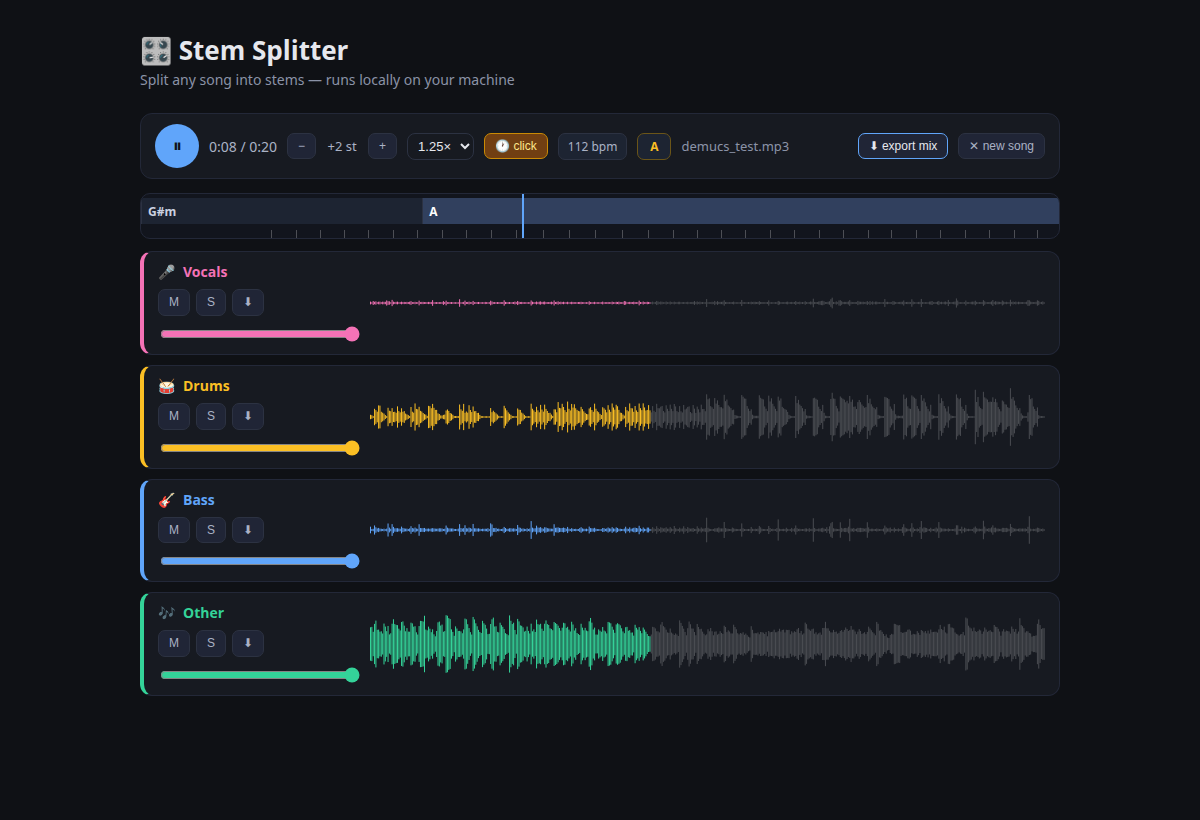
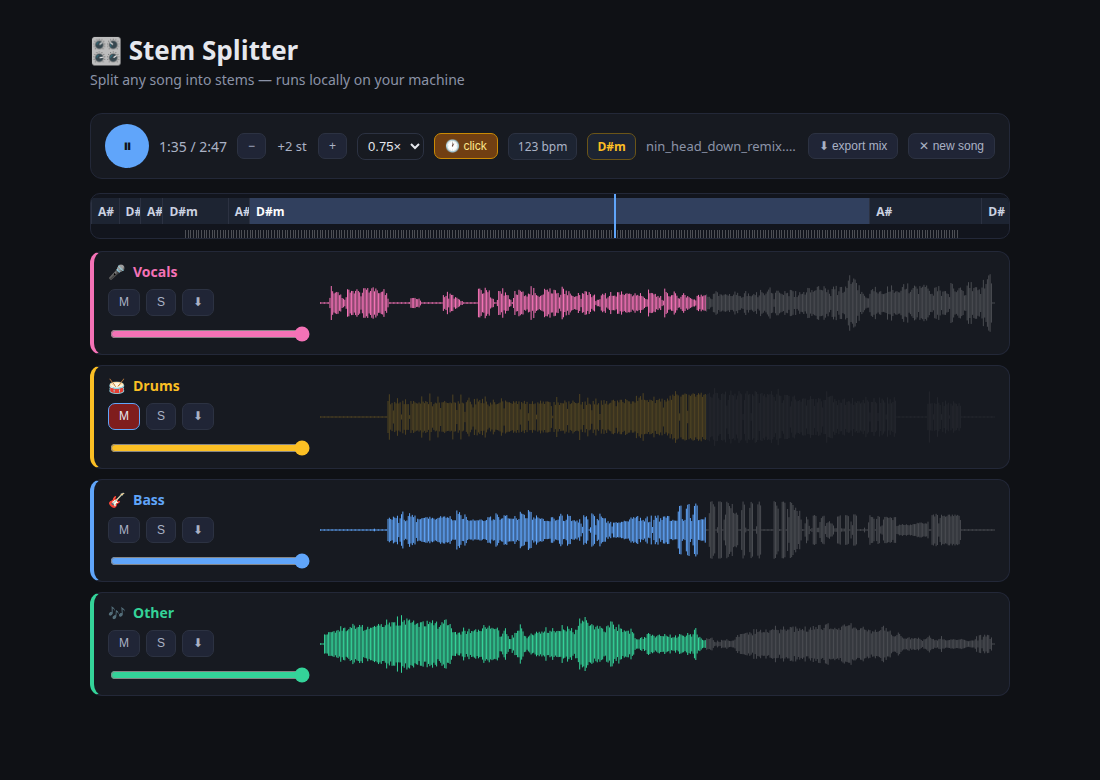
Add Docker packaging and refresh the demo GIF
Multi-stage Dockerfile (Node builds the mixer, python:3.12-slim runs
the API) with docker-compose, a model-weights volume, and optional GPU
block. New demo GIF shows the progress bar, solo, metronome, speed,
pitch shift, and chord-timeline seek.

diff --git a/README.md b/README.md
@@ -20,7 +20,23 @@ transformer source-separation model), wrapped in a simple web UI.
 - 🔒 Runs fully locally — your audio never leaves your machine
 - ⚡ GPU-accelerated when CUDA is available (a 3-minute song separates in seconds on a modern GPU, a few minutes on CPU)
 
-## Quickstart
+## Quickstart (Docker)
+
+The easiest way to run it — no Python/Node setup:
+
+```bash
+git clone https://github.com/leekt0124/stem-splitter.git
+cd stem-splitter
+docker compose up --build      # then open http://localhost:8000
+```
+
+Separation runs on CPU by default (a few minutes per song). With an NVIDIA
+GPU and [nvidia-container-toolkit](https://docs.nvidia.com/datacenter/cloud-native/container-toolkit/latest/install-guide.html),
+uncomment the `deploy:` block in `docker-compose.yml` for seconds-per-song
+separation. Model weights download on first use into a named volume, so
+updates (`git pull && docker compose up --build`) never re-download them.
+
+## Quickstart (local)
 
 Requires Python ≥ 3.10, [ffmpeg](https://ffmpeg.org/) on your PATH, and Node ≥ 18 (only to build the mixer frontend).
 